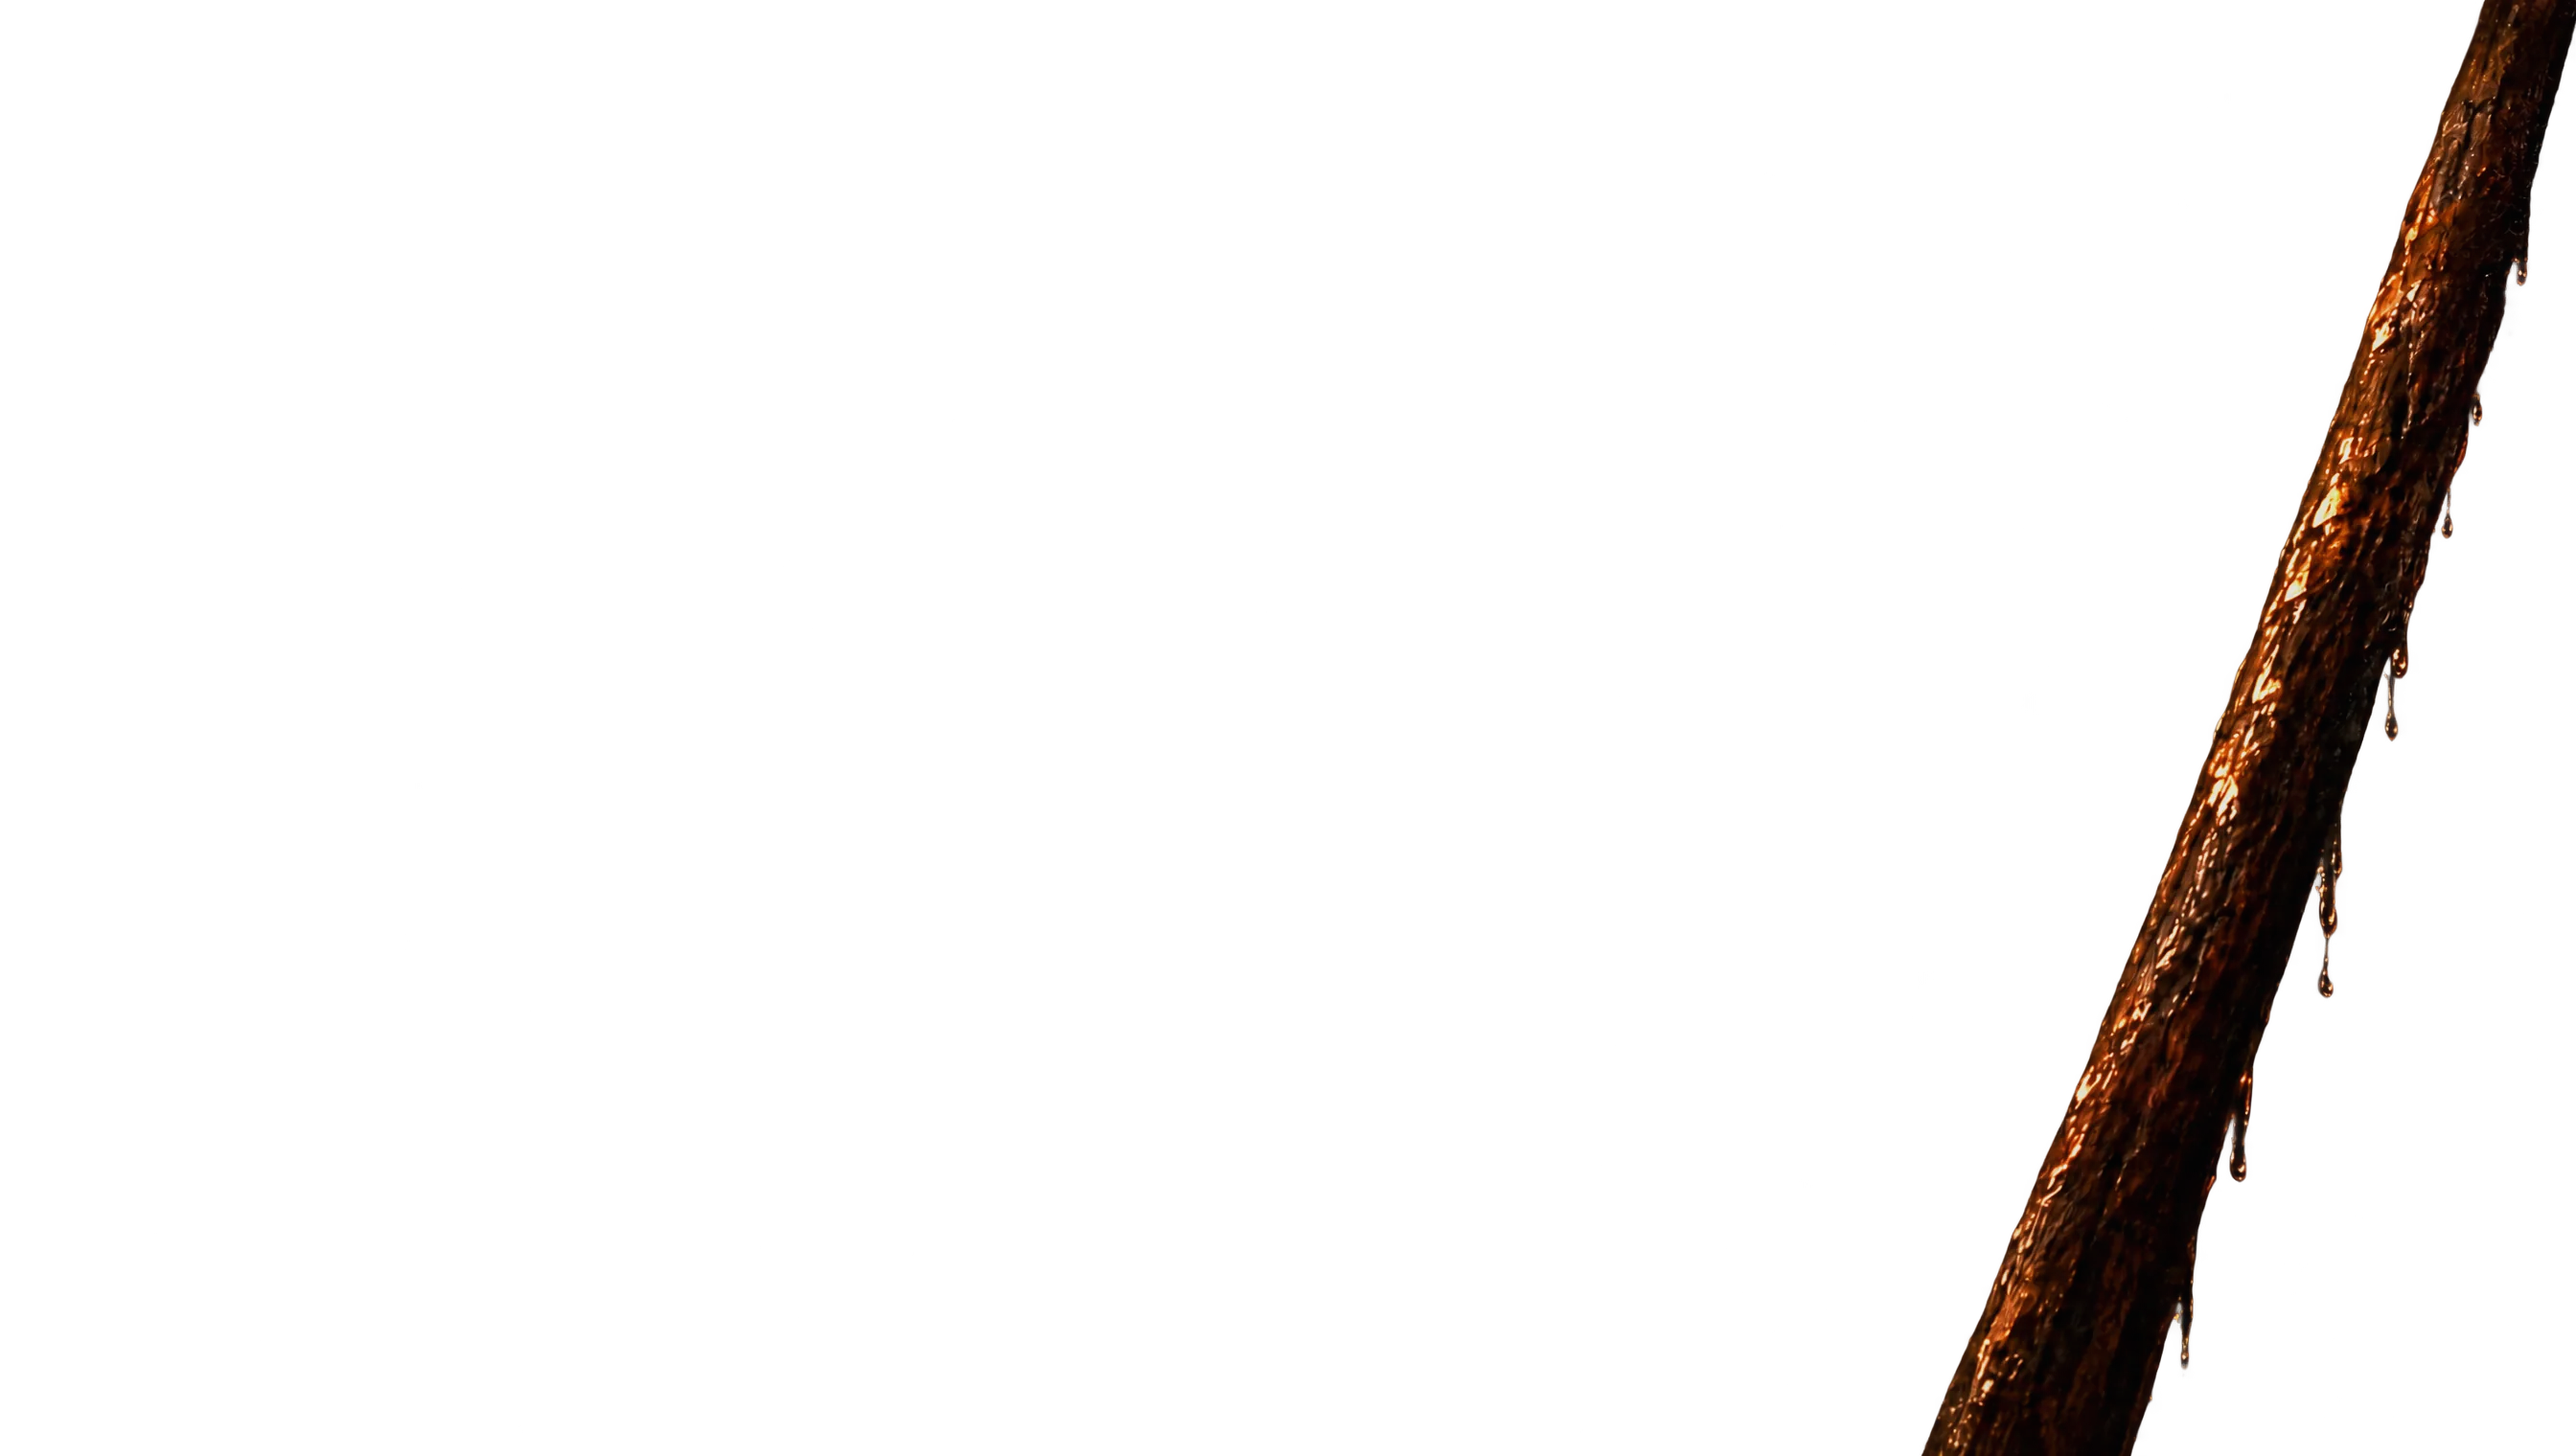
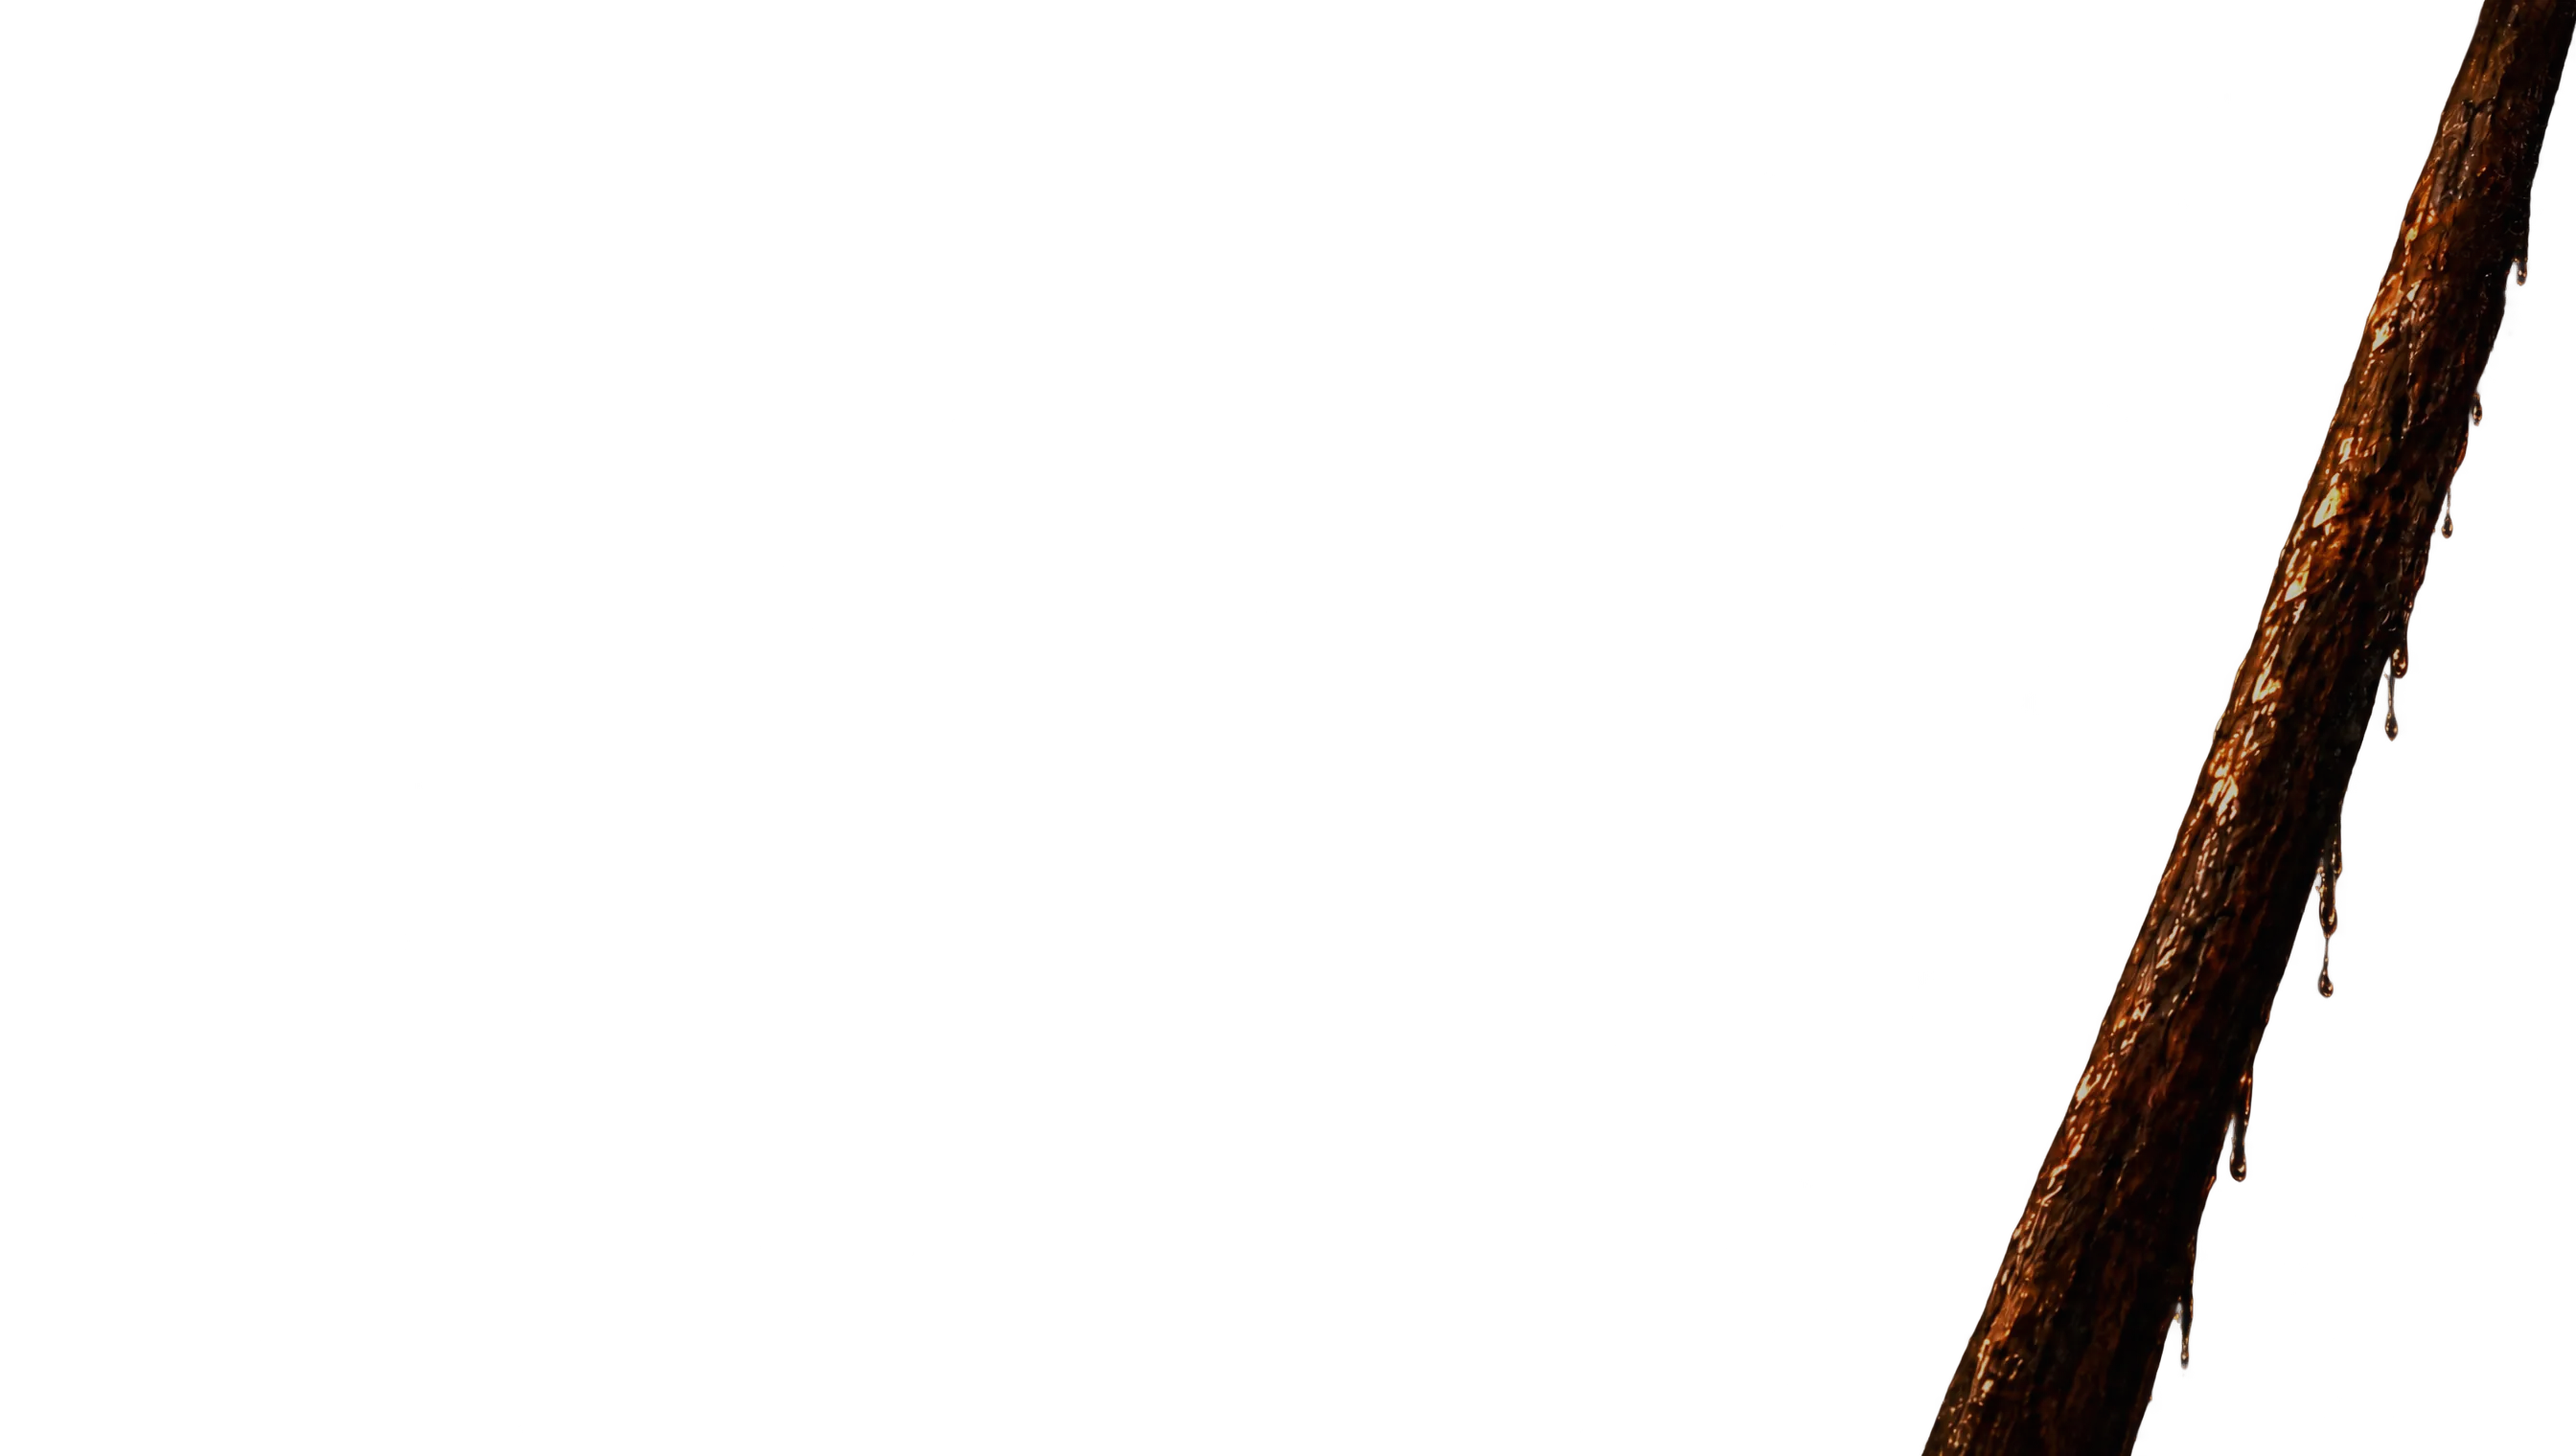
Hero planes: much darker by depth — back −55 %, boat −35 %, front −25 %
Dmitriy: "значительно темнее", keep the hierarchy (back darkest, the
ferryman a little lighter, the front planes lighter still) so the coin
is the brightest thing on the screen.

diff --git a/tools/hero-planes.py b/tools/hero-planes.py
@@ -1,6 +1,6 @@
 """Hero planes: assets/src/hero/*.png (lossless cut-outs of the master) →
 assets/img/hero/*.webp, darkened per depth so the coin stays the brightest
-thing in the scene (Dmitriy: back −30 %, the boat −15 %, the front planes −10 %).
+thing in the scene (Dmitriy: back −55 %, the boat −35 %, the front planes −25 % — "значительно темнее", the order matters).
 Alpha is untouched. Re-run after changing DARKEN."""
 import os
 from PIL import Image, ImageEnhance
@@ -8,7 +8,7 @@ from PIL import Image, ImageEnhance
 ROOT = os.path.dirname(os.path.dirname(os.path.abspath(__file__)))
 SRC = os.path.join(ROOT, 'assets', 'src', 'hero')
 OUT = os.path.join(ROOT, 'assets', 'img', 'hero')
-DARKEN = {'back': 0.30, 'mid': 0.15, 'front-l': 0.10, 'front-r': 0.10}
+DARKEN = {'back': 0.55, 'mid': 0.35, 'front-l': 0.25, 'front-r': 0.25}
 
 for name, k in DARKEN.items():
     im = Image.open(os.path.join(SRC, f'{name}.png')).convert('RGBA')
